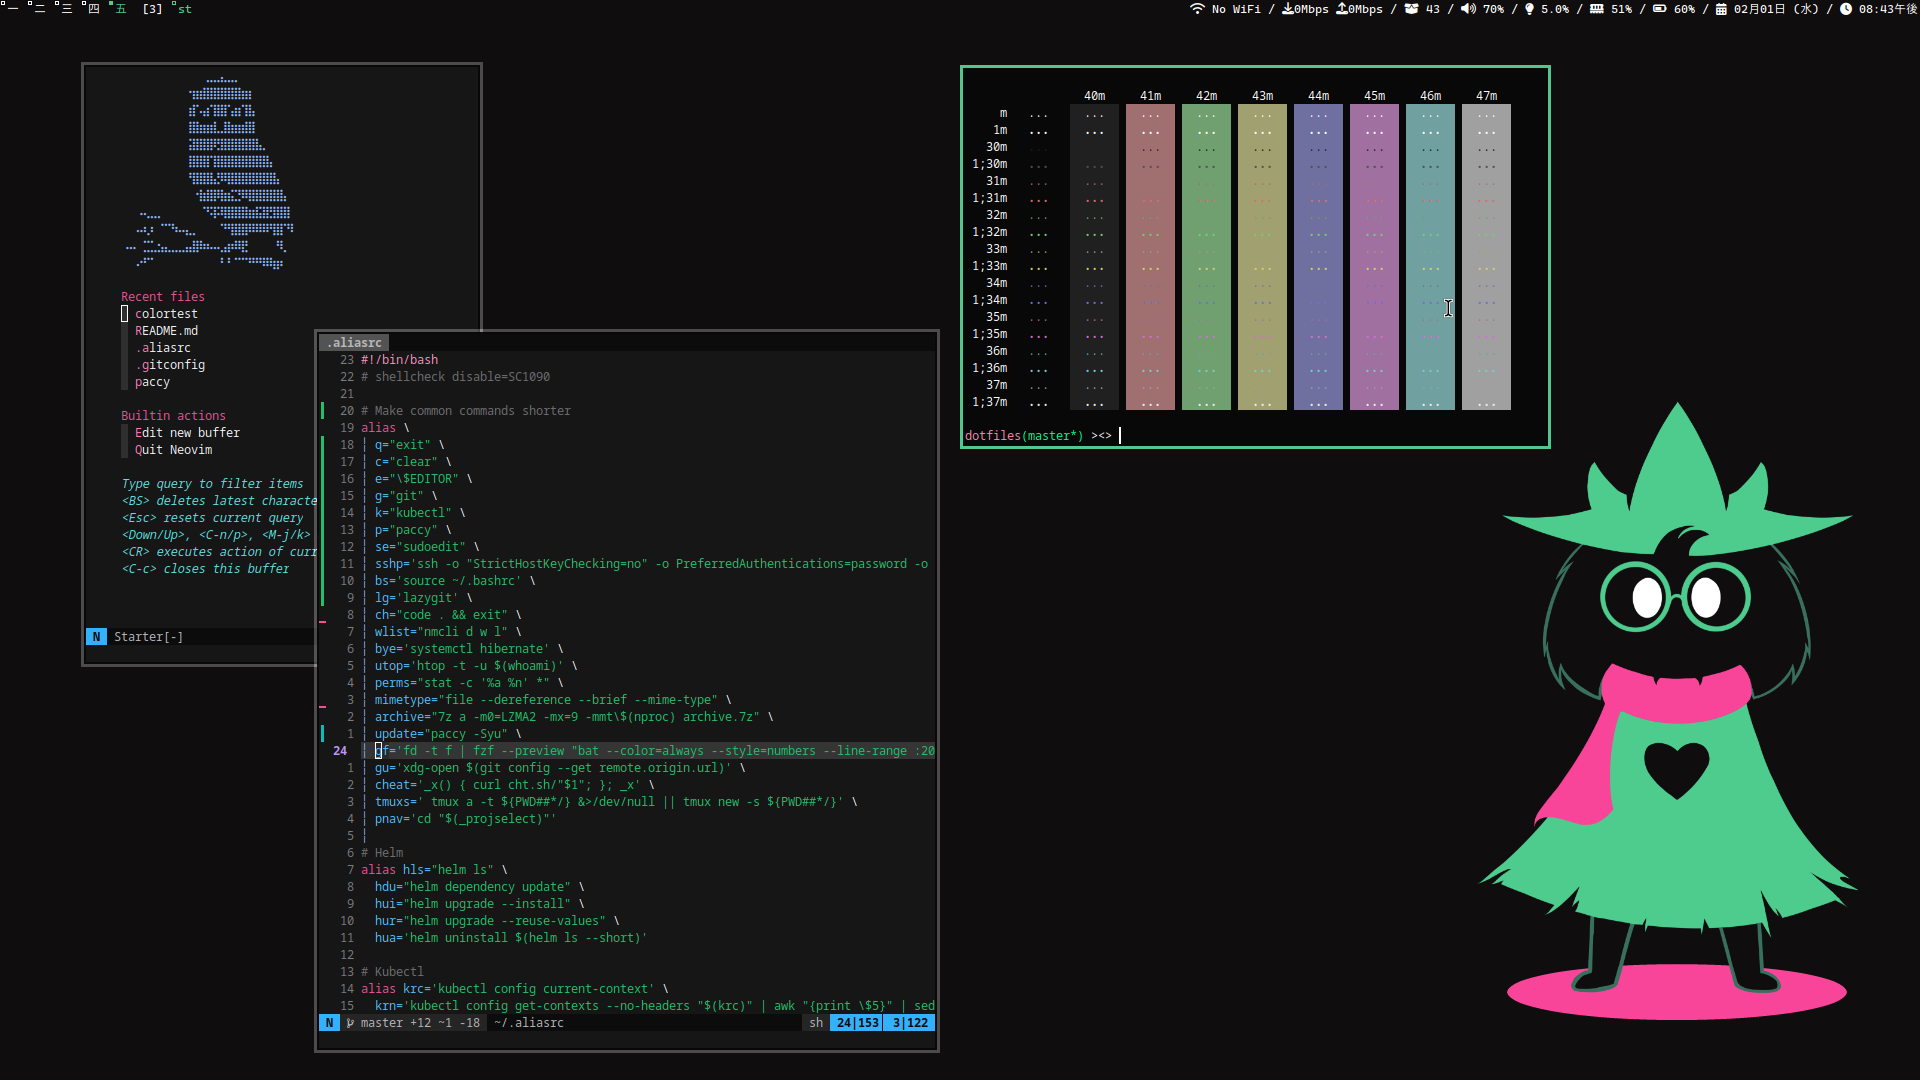
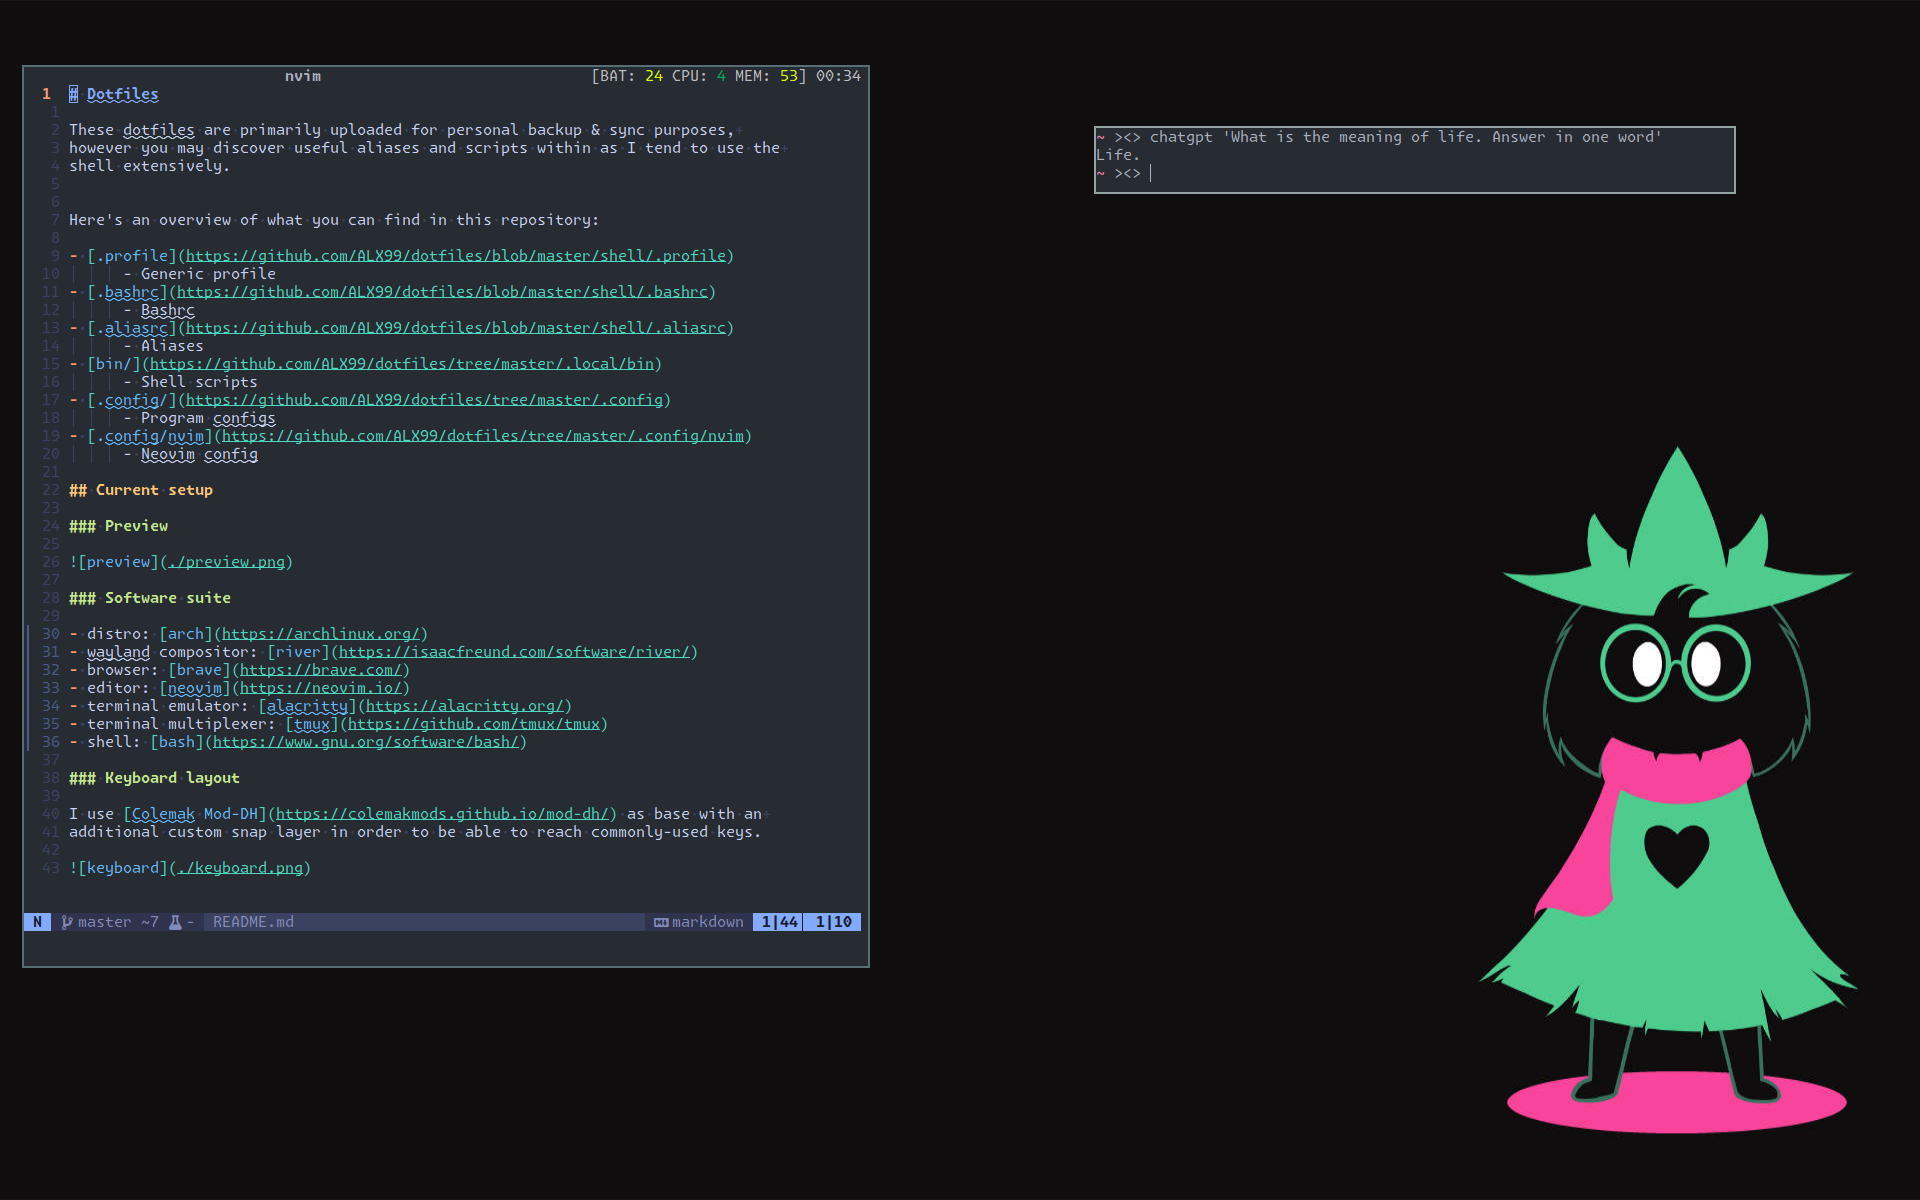
update readme

diff --git a/README.md b/README.md
@@ -1,4 +1,4 @@
-# Dotfiles
+# dotfiles
 
 These dotfiles are primarily uploaded for personal backup & sync purposes, 
 however you may discover useful aliases and scripts within as I tend to use the 
@@ -20,25 +20,24 @@ Here's an overview of what you can find in this repository:
 - [.config/nvim](https://github.com/ALX99/dotfiles/tree/master/.config/nvim)
       - Neovim config
 
-## Current setup
+## things
 
-### Preview
+### good software
+
+- distro: [arch](https://archlinux.org/)
+- wayland compositor: [river](https://isaacfreund.com/software/river/)
+- browser: [brave](https://brave.com/)
+- editor: [neovim](https://neovim.io/)
+- terminal emulator: [alacritty](https://alacritty.org/)
+- terminal multiplexer: [tmux](https://github.com/tmux/tmux)
+- shell: [bash](https://www.gnu.org/software/bash/)
+
+### picture
 
 ![preview](./preview.png)
 
-### Software suite
+### keyboard
 
-- Window Manager: [dwm](https://dwm.suckless.org/)
-- Menu Bar: [dmenu](https://tools.suckless.org/dmenu/)
-- Browser: [Brave](https://brave.com/)
-- Editor: [Neovim](https://neovim.io/)
-- Terminal Emulator: [st](https://st.suckless.org/)
-- Terminal Multiplexer: [tmux](https://github.com/tmux/tmux)
-- Shell: [bash](https://www.gnu.org/software/bash/)
-
-### Keyboard layout
-
-I use [Colemak Mod-DH](https://colemakmods.github.io/mod-dh/) as base with an 
-additional custom snap layer in order to be able to reach commonly-used keys.
+[colemak dh](https://colemakmods.github.io/mod-dh/) is nice
 
 ![keyboard](./keyboard.png)
